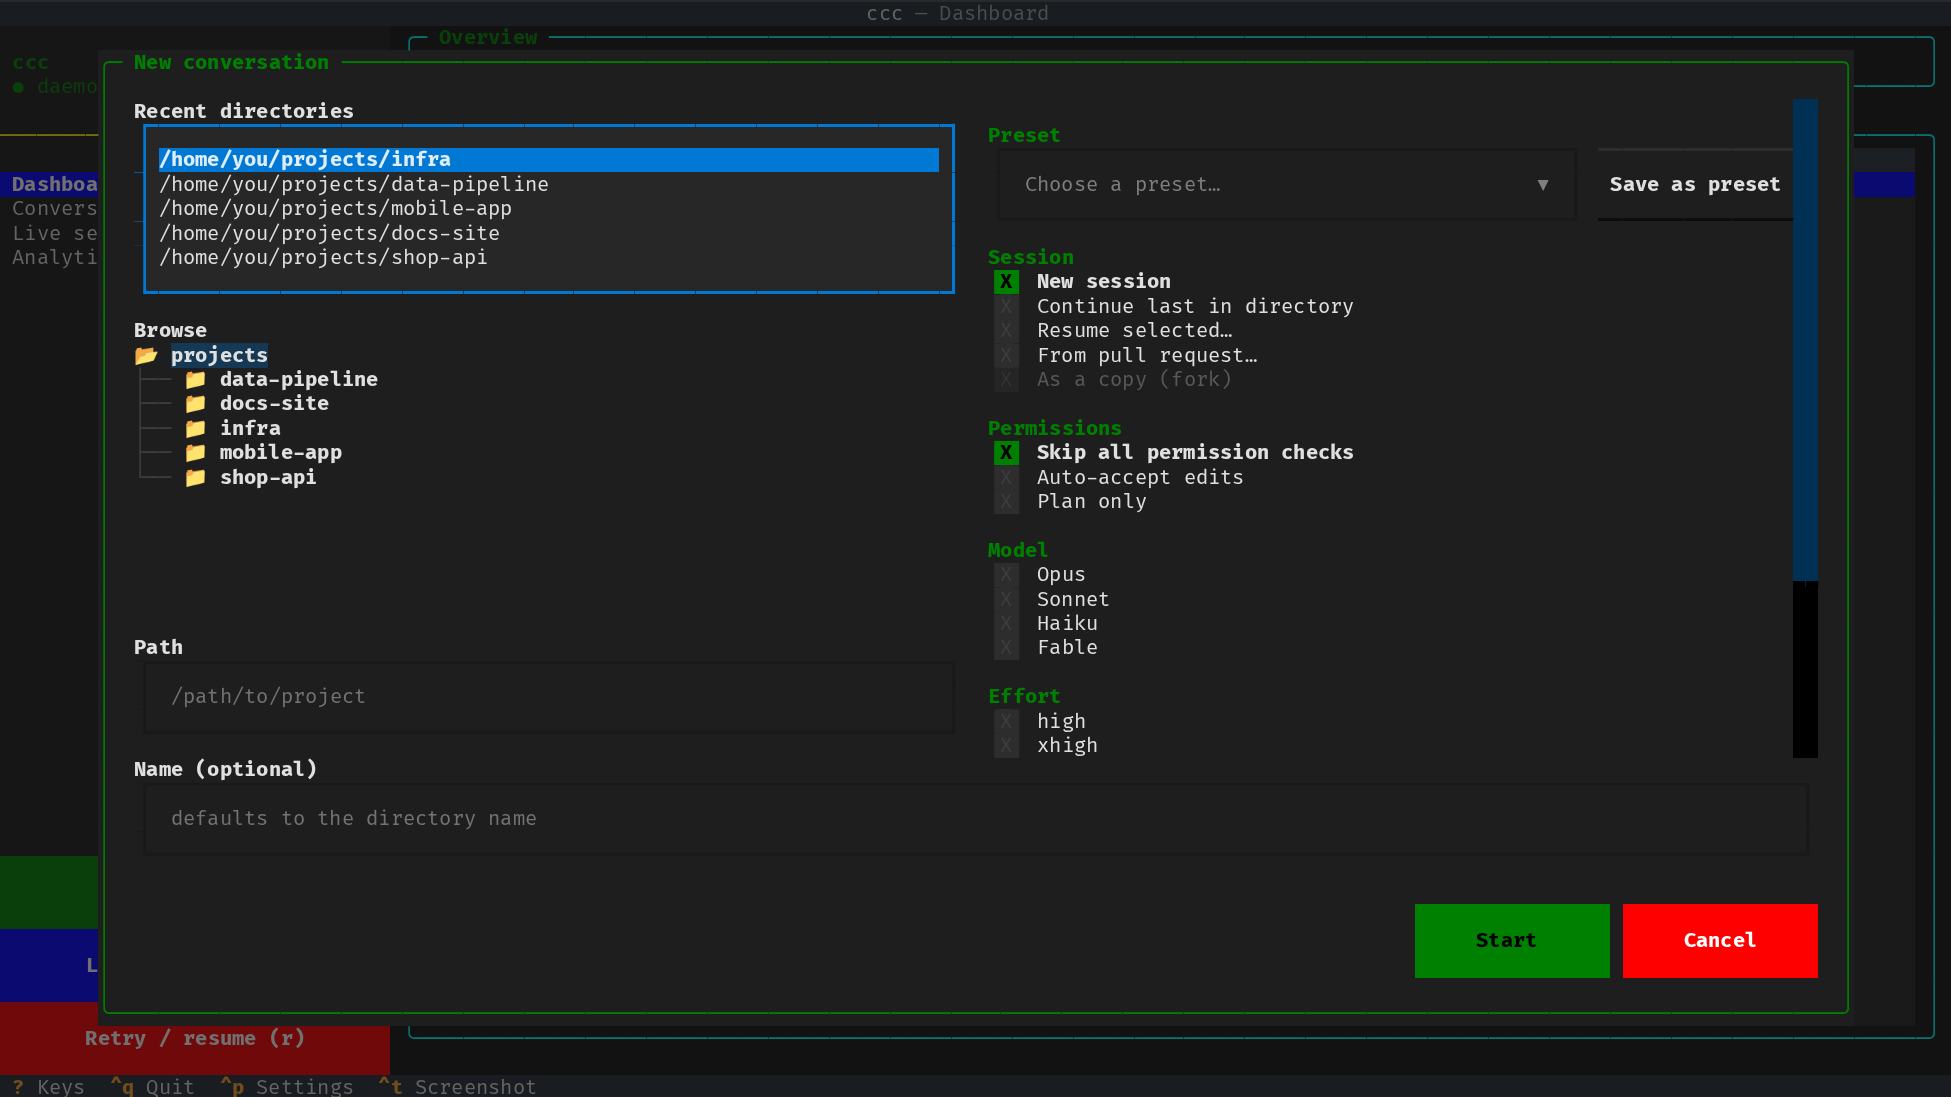
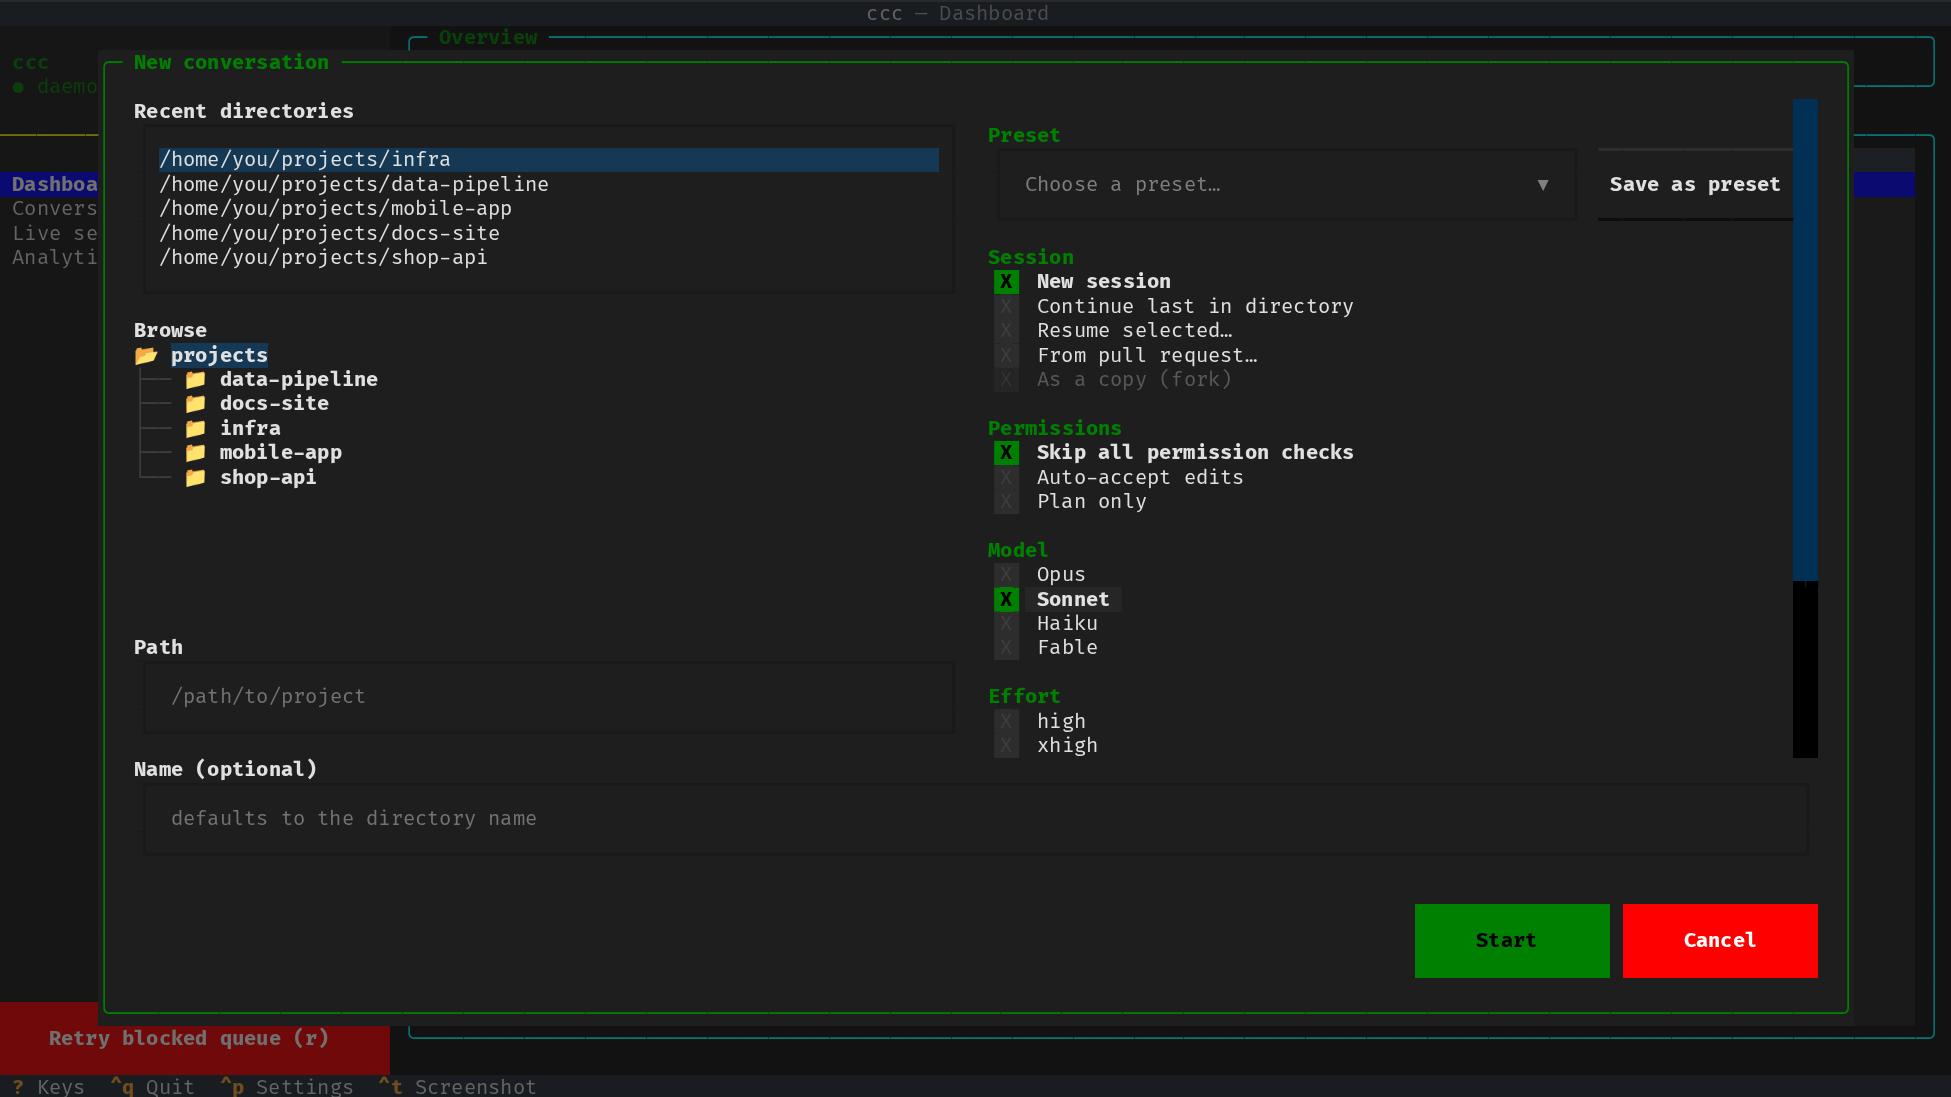
fix(tui): New conversation options stay readable when clicked
Textual's ToggleButton:focus adds a tall border; on the dialog's 1-row
checkboxes it covered the whole row — a grey box, the label gone — so
picking options looked broken. Focused options stay borderless; focus
shows on the label. README screenshot of the dialog refreshed.

Claude-Session: https://claude.ai/code/session_01RgGTzhC25AnBzMbQLkwJwc

diff --git a/tests/test_tui_new_conversation.py b/tests/test_tui_new_conversation.py
@@ -193,3 +193,19 @@ async def test_preset_select_applies_and_save_as_preset(tmp_path):
         assert isinstance(app.screen, NewConversationModal)
     presets = list_presets(storage)
     assert "effort_xhigh" in presets["haiku-xhigh"].selection
+
+
+@pytest.mark.asyncio
+async def test_clicked_option_stays_readable(tmp_path):
+    # Textual's ToggleButton:focus adds a tall border; on the dialog's
+    # 1-row checkboxes it covered the row — a grey box, label gone.
+    storage = Storage(tmp_path / "h.db")
+    app = _host(NewConversationModal(storage, browse_root=tmp_path), [])
+    async with app.run_test(size=(160, 50)) as pilot:
+        await pilot.pause()
+        await pilot.click("#opt-model_sonnet")
+        await pilot.pause()
+        box = app.screen.query_one("#opt-model_sonnet", Checkbox)
+        assert box.has_focus and box.value
+        assert box.styles.border_top[0] in ("", "none")
+        assert box.content_region.height == 1

diff --git a/src/ccc/tui/new_conversation.py b/src/ccc/tui/new_conversation.py
@@ -105,6 +105,18 @@ class NewConversationModal(ModalScreen):
         height: 1;
         background: transparent;
     }
+    /* Textual's ToggleButton:focus adds a tall border; on these 1-row
+       checkboxes it covers the whole row — a grey box, the label gone.
+       Keep them borderless and mark focus on the label instead. */
+    NewConversationModal Checkbox:focus {
+        border: none;
+        background-tint: transparent;
+    }
+    NewConversationModal Checkbox:focus > .toggle--label {
+        color: $text;
+        background: $boost;
+        text-style: underline;
+    }
     NewConversationModal Checkbox > .toggle--button {
         color: $surface-lighten-2;
         background: $surface-lighten-1;
